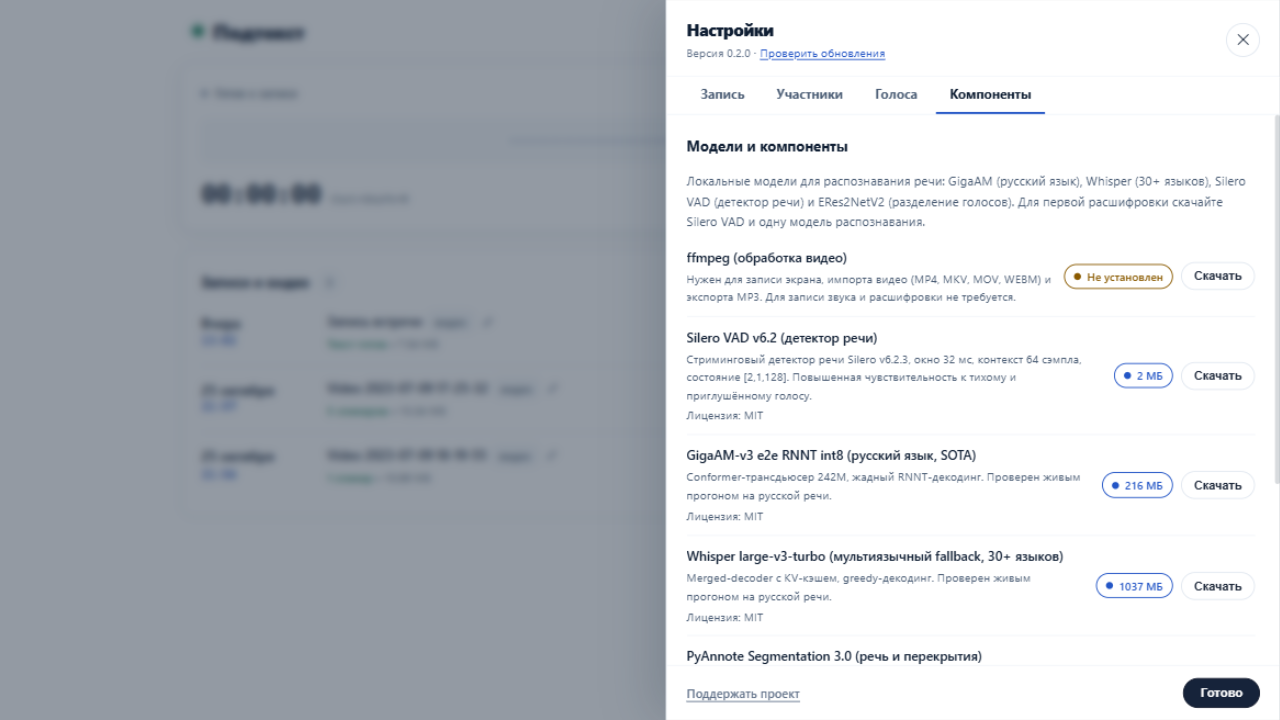
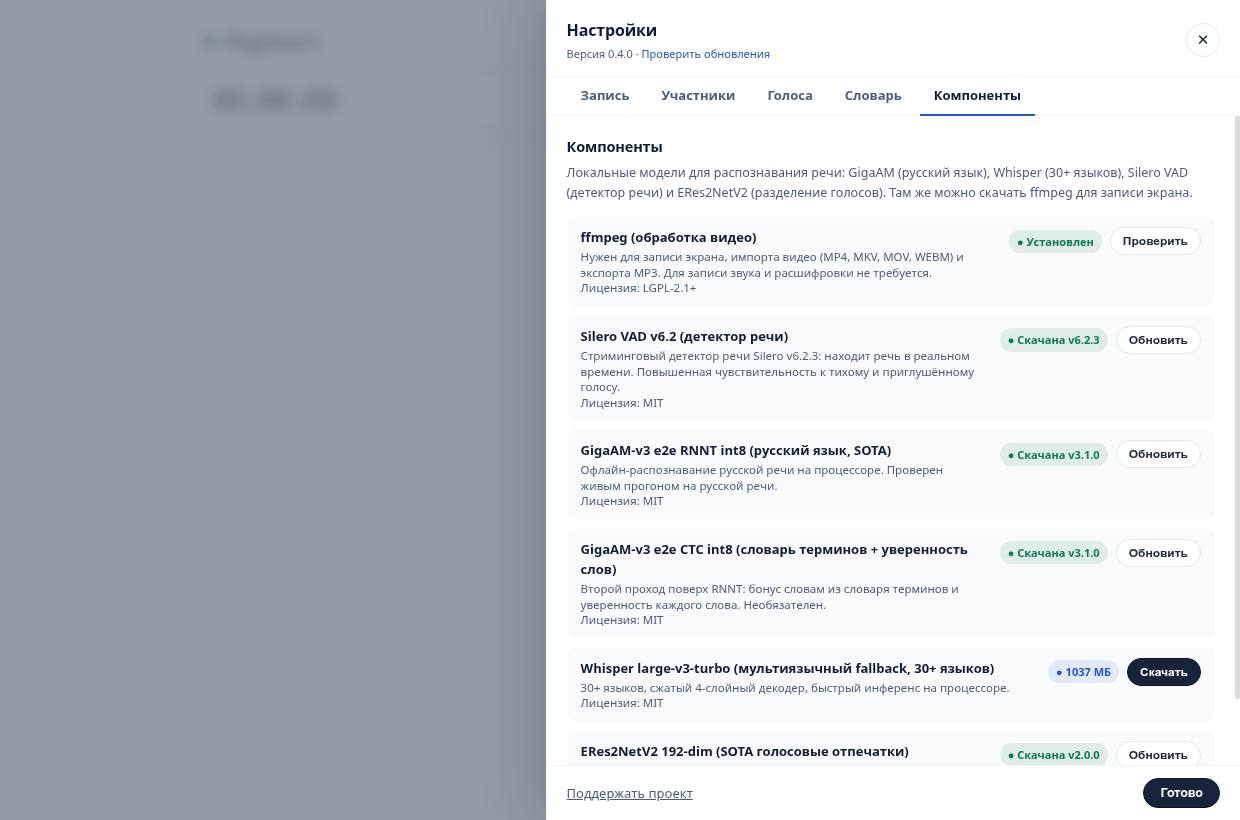
readme update

diff --git a/docs/render_screenshots.html b/docs/render_screenshots.html
@@ -233,7 +233,7 @@
                   </button>
                   <div class="clean-chip static">
                     <svg width="12" height="12" viewBox="0 0 24 24" fill="none" stroke="currentColor" stroke-width="2" stroke-linecap="round"><path d="M12 2a3 3 0 0 0-3 3v7a3 3 0 0 0 6 0V5a3 3 0 0 0-3-3Z"/><path d="M19 10v2a7 7 0 0 1-14 0v-2"/><line x1="12" y1="19" x2="12" y2="22"/></svg>
-                    <span class="mic-name-text">Raptor Lake-P/U/H cAVS Digital Microphone</span>
+                    <span class="mic-name-text">Встроенный микрофон</span>
                   </div>
                 </div>
               </div>
@@ -325,7 +325,7 @@
                 <span>Спикеры · 3</span>
                 <span class="spk-notify-dot ok"></span>
               </button>
-              <button class="btn-primary btn-sm btn-transcribe-header">Запустить расшифровку</button>
+              <button class="btn-primary btn-sm btn-transcribe-header">Повторить расшифровку</button>
               <button class="btn-secondary btn-sm">DOCX</button>
               <button class="btn-secondary btn-sm">PDF</button>
               <button class="btn-secondary btn-sm">Копировать текст</button>
@@ -334,8 +334,8 @@
           <div class="transcript-sub-player is-expanded">
             <div class="video-player-container">
               <div class="mock-video-slide">
-                <h3>Подтекст (Podtekst) — Локальная архитектура v0.1.6</h3>
-                <p>GigaAM RNNT int8 • Silero VAD • ERes2NetV2 192-dim • Tauri v2 • PipeWire</p>
+                <h3>Подтекст (Podtekst) — Локальная архитектура v0.4.0</h3>
+                <p>GigaAM RNNT int8 • CTC Hotwords • Silero VAD • ERes2NetV2 192-dim • Tauri v2</p>
                 <div class="play-overlay-badge">▶ 00:18 / 14:22 • Слайд 3: Модули диаризации</div>
               </div>
               <button type="button" class="btn-video-expand">
@@ -351,18 +351,18 @@
             <div class="transcript-speakers">
               <div class="speakers-deck">
                 <div class="speaker-card matched" style="--spk: #2563eb; --spk-bg: rgba(37, 99, 235, 0.05);">
-                  <div class="speaker-top"><span class="speaker-name">Алексей Смирнов</span><span class="speaker-status ok">Микрофон · 6</span></div>
-                  <div class="speaker-samples"><div class="sample-row"><button class="sample-play">▶</button><span class="sample-text">«Я тогда слать тебе…»</span></div></div>
+                  <div class="speaker-top"><span class="speaker-name">Алексей Смирнов</span><span class="speaker-status ok">узнан · Команда · 0.94</span></div>
+                  <div class="speaker-samples"><div class="sample-row"><button class="sample-play">▶</button><span class="sample-text">00:02 · «Всем привет! Сверяемся по…»</span><button class="sample-detach-btn">Открепить</button></div></div>
                   <div class="assign-row"><input class="input-field" value="Алексей Смирнов (Team Lead)" /><button class="btn-secondary btn-sm">Запомнить</button></div>
                 </div>
                 <div class="speaker-card matched" style="--spk: #0e7a55; --spk-bg: rgba(14, 122, 85, 0.05);">
-                  <div class="speaker-top"><span class="speaker-name">Иван Петров</span><span class="speaker-status ok">Собеседник · 38</span></div>
-                  <div class="speaker-samples"><div class="sample-row"><button class="sample-play">▶</button><span class="sample-text">«GigaAM RNNT в int8…»</span></div></div>
+                  <div class="speaker-top"><span class="speaker-name">Иван Петров</span><span class="speaker-status ok">узнан · Команда · 0.91</span></div>
+                  <div class="speaker-samples"><div class="sample-row"><button class="sample-play">▶</button><span class="sample-text">00:09 · «GigaAM RNNT в int8…»</span><button class="sample-detach-btn">Открепить</button></div></div>
                   <div class="assign-row"><input class="input-field" value="Иван Петров (Backend Lead)" /><button class="btn-secondary btn-sm">Запомнить</button></div>
                 </div>
                 <div class="speaker-card matched" style="--spk: #d97706; --spk-bg: rgba(217, 119, 6, 0.05);">
-                  <div class="speaker-top"><span class="speaker-name">Мария Сидорова</span><span class="speaker-status ok">Собеседник · 34</span></div>
-                  <div class="speaker-samples"><div class="sample-row"><button class="sample-play">▶</button><span class="sample-text">«Проверили диаризацию…»</span></div></div>
+                  <div class="speaker-top"><span class="speaker-name">Мария Сидорова</span><span class="speaker-status ok">узнан · Команда · 0.89</span></div>
+                  <div class="speaker-samples"><div class="sample-row"><button class="sample-play">▶</button><span class="sample-text">00:18 · «Проверили диаризацию…»</span><button class="sample-detach-btn">Открепить</button></div></div>
                   <div class="assign-row"><input class="input-field" value="Мария Сидорова (QA Lead)" /><button class="btn-secondary btn-sm">Запомнить</button></div>
                 </div>
               </div>
@@ -379,12 +379,12 @@
                 </div>
               </div>
               <div class="markdown-body">
-                <div class="utt utterance" style="--spk: #2563eb; --spk-bg: rgba(37, 99, 235, 0.06);"><button class="utt-time-btn">00:02</button><div class="utt-body"><div class="utt-speaker">Алексей Смирнов (Team Lead)</div><div class="utt-text">Всем привет! Сверяемся по архитектуре локального распознавания и релизу версии 0.1.6.</div></div></div>
-                <div class="utt utterance" style="--spk: #0e7a55; --spk-bg: rgba(14, 122, 85, 0.06);"><button class="utt-time-btn">00:09</button><div class="utt-body"><div class="utt-speaker">Иван Петров (Backend Lead)</div><div class="utt-text">GigaAM RNNT в int8 готов. Потребление памяти снизили до 226 МБ, инференс полностью на CPU без дискретной видеокарты.</div></div></div>
+                <div class="utt utterance" style="--spk: #2563eb; --spk-bg: rgba(37, 99, 235, 0.06);"><button class="utt-time-btn">00:02</button><div class="utt-body"><div class="utt-speaker">Алексей Смирнов (Team Lead)</div><div class="utt-text">Всем привет! Сверяемся по архитектуре локального распознавания и релизу версии 0.4.0.</div></div></div>
+                <div class="utt utterance" style="--spk: #0e7a55; --spk-bg: rgba(14, 122, 85, 0.06);"><button class="utt-time-btn">00:09</button><div class="utt-body"><div class="utt-speaker">Иван Петров (Backend Lead)</div><div class="utt-text">GigaAM RNNT в int8 готов. Второй проход CTC со словарём терминов даёт точные названия и уверенность каждого слова. Инференс полностью на CPU.</div></div></div>
                 <div class="utt utterance active" style="--spk: #d97706; --spk-bg: rgba(217, 119, 6, 0.06);"><button class="utt-time-btn">00:18</button><div class="utt-body"><div class="utt-speaker">Мария Сидорова (QA Lead)</div><div class="utt-text">Проверили диаризацию на стереозаписях: ERes2NetV2 разделяет спикеров без ошибок даже при наложении фраз.</div></div></div>
                 <div class="utt utterance" style="--spk: #0e7a55; --spk-bg: rgba(14, 122, 85, 0.06);"><button class="utt-time-btn">00:27</button><div class="utt-body"><div class="utt-speaker">Иван Петров (Backend Lead)</div><div class="utt-text">Мульти-прототипные отпечатки устойчивы. Голосовые пакеты можно подключать и переносить между машинами через Voice Packs.</div></div></div>
                 <div class="utt utterance" style="--spk: #2563eb; --spk-bg: rgba(37, 99, 235, 0.06);"><button class="utt-time-btn">00:36</button><div class="utt-body"><div class="utt-speaker">Алексей Смирнов (Team Lead)</div><div class="utt-text">Отлично. Главное — 100% приватность: ни один байт аудио или текста не уходит в облако. Экспорт в Markdown сохраняется прямо в папку встречи.</div></div></div>
-                <div class="utt utterance" style="--spk: #d97706; --spk-bg: rgba(217, 119, 6, 0.06);"><button class="utt-time-btn">00:45</button><div class="utt-body"><div class="utt-speaker">Мария Сидорова (QA Lead)</div><div class="utt-text">Все автотесты в CI зелёные. Можем открывать релиз и публиковать документацию.</div></div></div>
+                <div class="utt utterance" style="--spk: #d97706; --spk-bg: rgba(217, 119, 6, 0.06);"><button class="utt-time-btn">00:45</button><div class="utt-body"><div class="utt-speaker">Мария Сидорова (QA Lead)</div><div class="utt-text">Все автотесты в CI зелёные на Linux, macOS и Windows. Можем открывать релиз и публиковать документацию.</div></div></div>
               </div>
             </div>
           </main>
@@ -405,7 +405,7 @@
         <div class="app-drawer-top">
           <div class="settings-heading">
             <h2 class="modal-title">Настройки</h2>
-            <div class="settings-version">Версия 0.1.6 · <a href="#check" style="color: var(--accent-blue); text-decoration: none;">Проверить обновления</a></div>
+            <div class="settings-version">Версия 0.4.0 · <a href="#check" style="color: var(--accent-blue); text-decoration: none;">Проверить обновления</a></div>
           </div>
           <button class="icon-btn">✕</button>
         </div>
@@ -413,29 +413,38 @@
           <button class="settings-tab">Запись</button>
           <button class="settings-tab">Участники</button>
           <button class="settings-tab">Голоса</button>
-          <button class="settings-tab active">Модели</button>
+          <button class="settings-tab">Словарь</button>
+          <button class="settings-tab active">Компоненты</button>
         </div>
         <div class="app-drawer-body">
           <div>
-            <div class="card-title" style="margin-bottom: 6px;">Модели ИИ</div>
-            <div class="help-text">Локальные модели для распознавания речи: GigaAM (русский язык), Whisper (30+ языков), Silero VAD (детектор речи) и ERes2NetV2 (разделение голосов). Для первой расшифровки скачайте Silero VAD и одну модель распознавания.</div>
+            <div class="card-title" style="margin-bottom: 6px;">Компоненты</div>
+            <div class="help-text">Локальные модели для распознавания речи: GigaAM (русский язык), Whisper (30+ языков), Silero VAD (детектор речи) и ERes2NetV2 (разделение голосов). Там же можно скачать ffmpeg для записи экрана.</div>
           </div>
-          <div class="models-list" style="display: flex; flex-direction: column; gap: 14px;">
-            <div class="model-item" style="display: flex; justify-content: space-between; align-items: flex-start; gap: 14px; padding: 12px 14px; background: var(--bg-inset); border-radius: var(--radius-inner);">
-              <div style="flex: 1;"><div style="font-weight: 700; font-size: 13.5px; margin-bottom: 3px;">Silero VAD v6.2 (детектор речи)</div><div style="font-size: 12px; color: var(--text-muted); line-height: 1.4;">Стриминговый детектор речи Silero v6.2.3, окно 32 мс, контекст 64 сэмпла, состояние [2,1,128]. Повышенная чувствительность к тихому и приглушённому голосу.<br>Лицензия: MIT</div></div>
-              <div style="display: flex; gap: 8px; align-items: center; flex-shrink: 0;"><span class="status-chip ok" style="font-size: 11.5px; padding: 3px 8px; border-radius: 999px; background: rgba(14, 122, 85, 0.1); color: var(--accent-ok); font-weight: 600;">● Скачана v6.2.3</span><button class="btn-secondary btn-sm">Обновить</button></div>
+          <div class="models-list" style="display: flex; flex-direction: column; gap: 10px;">
+            <div class="model-item" style="display: flex; justify-content: space-between; align-items: flex-start; gap: 14px; padding: 10px 14px; background: var(--bg-inset); border-radius: var(--radius-inner);">
+              <div style="flex: 1;"><div style="font-weight: 700; font-size: 13px; margin-bottom: 2px;">ffmpeg (обработка видео)</div><div style="font-size: 11.5px; color: var(--text-muted); line-height: 1.35;">Нужен для записи экрана, импорта видео (MP4, MKV, MOV, WEBM) и экспорта MP3. Для записи звука и расшифровки не требуется.<br>Лицензия: LGPL-2.1+</div></div>
+              <div style="display: flex; gap: 8px; align-items: center; flex-shrink: 0;"><span class="status-chip ok" style="font-size: 11px; padding: 3px 8px; border-radius: 999px; background: rgba(14, 122, 85, 0.1); color: var(--accent-ok); font-weight: 600;">● Установлен</span><button class="btn-secondary btn-sm">Проверить</button></div>
             </div>
-            <div class="model-item" style="display: flex; justify-content: space-between; align-items: flex-start; gap: 14px; padding: 12px 14px; background: var(--bg-inset); border-radius: var(--radius-inner);">
-              <div style="flex: 1;"><div style="font-weight: 700; font-size: 13.5px; margin-bottom: 3px;">GigaAM-v3 e2e RNNT int8 (русский язык, SOTA)</div><div style="font-size: 12px; color: var(--text-muted); line-height: 1.4;">Conformer-трансдьюсер 242M, жадный RNNT-декодинг. Проверен живым прогоном на русской речи.<br>Лицензия: MIT</div></div>
-              <div style="display: flex; gap: 8px; align-items: center; flex-shrink: 0;"><span class="status-chip ok" style="font-size: 11.5px; padding: 3px 8px; border-radius: 999px; background: rgba(14, 122, 85, 0.1); color: var(--accent-ok); font-weight: 600;">● Скачана v3.1.0</span><button class="btn-secondary btn-sm">Обновить</button></div>
+            <div class="model-item" style="display: flex; justify-content: space-between; align-items: flex-start; gap: 14px; padding: 10px 14px; background: var(--bg-inset); border-radius: var(--radius-inner);">
+              <div style="flex: 1;"><div style="font-weight: 700; font-size: 13px; margin-bottom: 2px;">Silero VAD v6.2 (детектор речи)</div><div style="font-size: 11.5px; color: var(--text-muted); line-height: 1.35;">Стриминговый детектор речи Silero v6.2.3: находит речь в реальном времени. Повышенная чувствительность к тихому и приглушённому голосу.<br>Лицензия: MIT</div></div>
+              <div style="display: flex; gap: 8px; align-items: center; flex-shrink: 0;"><span class="status-chip ok" style="font-size: 11px; padding: 3px 8px; border-radius: 999px; background: rgba(14, 122, 85, 0.1); color: var(--accent-ok); font-weight: 600;">● Скачана v6.2.3</span><button class="btn-secondary btn-sm">Обновить</button></div>
             </div>
-            <div class="model-item" style="display: flex; justify-content: space-between; align-items: flex-start; gap: 14px; padding: 12px 14px; background: var(--bg-inset); border-radius: var(--radius-inner);">
-              <div style="flex: 1;"><div style="font-weight: 700; font-size: 13.5px; margin-bottom: 3px;">Whisper large-v3-turbo (мультиязычный fallback, 30+ языков)</div><div style="font-size: 12px; color: var(--text-muted); line-height: 1.4;">Merged-decoder с KV-кэшем, greedy-декодинг. Проверен живым прогоном на русской речи.<br>Лицензия: MIT</div></div>
-              <div style="display: flex; gap: 8px; align-items: center; flex-shrink: 0;"><span class="status-chip info" style="font-size: 11.5px; padding: 3px 8px; border-radius: 999px; background: rgba(37, 99, 235, 0.1); color: var(--accent-blue); font-weight: 600;">● 1037 МБ</span><button class="btn-primary btn-sm">Скачать</button></div>
+            <div class="model-item" style="display: flex; justify-content: space-between; align-items: flex-start; gap: 14px; padding: 10px 14px; background: var(--bg-inset); border-radius: var(--radius-inner);">
+              <div style="flex: 1;"><div style="font-weight: 700; font-size: 13px; margin-bottom: 2px;">GigaAM-v3 e2e RNNT int8 (русский язык, SOTA)</div><div style="font-size: 11.5px; color: var(--text-muted); line-height: 1.35;">Офлайн-распознавание русской речи на процессоре. Проверен живым прогоном на русской речи.<br>Лицензия: MIT</div></div>
+              <div style="display: flex; gap: 8px; align-items: center; flex-shrink: 0;"><span class="status-chip ok" style="font-size: 11px; padding: 3px 8px; border-radius: 999px; background: rgba(14, 122, 85, 0.1); color: var(--accent-ok); font-weight: 600;">● Скачана v3.1.0</span><button class="btn-secondary btn-sm">Обновить</button></div>
             </div>
-            <div class="model-item" style="display: flex; justify-content: space-between; align-items: flex-start; gap: 14px; padding: 12px 14px; background: var(--bg-inset); border-radius: var(--radius-inner);">
-              <div style="flex: 1;"><div style="font-weight: 700; font-size: 13.5px; margin-bottom: 3px;">ERes2NetV2 192-dim (SOTA голосовые отпечатки)</div><div style="font-size: 12px; color: var(--text-muted); line-height: 1.4;">3D-Speaker ERes2NetV2: fbank [B,T,80] → 192-dim. Проверен: косинус 1.0 с официальным чекпоинтом; кросс-спикерные пары ≤ 0.22, свой голос ≥ 0.48.<br>Лицензия: Apache-2.0</div></div>
-              <div style="display: flex; gap: 8px; align-items: center; flex-shrink: 0;"><span class="status-chip ok" style="font-size: 11.5px; padding: 3px 8px; border-radius: 999px; background: rgba(14, 122, 85, 0.1); color: var(--accent-ok); font-weight: 600;">● Скачана v2.0.0</span><button class="btn-secondary btn-sm">Обновить</button></div>
+            <div class="model-item" style="display: flex; justify-content: space-between; align-items: flex-start; gap: 14px; padding: 10px 14px; background: var(--bg-inset); border-radius: var(--radius-inner);">
+              <div style="flex: 1;"><div style="font-weight: 700; font-size: 13px; margin-bottom: 2px;">GigaAM-v3 e2e CTC int8 (словарь терминов + уверенность слов)</div><div style="font-size: 11.5px; color: var(--text-muted); line-height: 1.35;">Второй проход поверх RNNT: бонус словам из словаря терминов и уверенность каждого слова. Необязателен.<br>Лицензия: MIT</div></div>
+              <div style="display: flex; gap: 8px; align-items: center; flex-shrink: 0;"><span class="status-chip ok" style="font-size: 11px; padding: 3px 8px; border-radius: 999px; background: rgba(14, 122, 85, 0.1); color: var(--accent-ok); font-weight: 600;">● Скачана v3.1.0</span><button class="btn-secondary btn-sm">Обновить</button></div>
+            </div>
+            <div class="model-item" style="display: flex; justify-content: space-between; align-items: flex-start; gap: 14px; padding: 10px 14px; background: var(--bg-inset); border-radius: var(--radius-inner);">
+              <div style="flex: 1;"><div style="font-weight: 700; font-size: 13px; margin-bottom: 2px;">Whisper large-v3-turbo (мультиязычный fallback, 30+ языков)</div><div style="font-size: 11.5px; color: var(--text-muted); line-height: 1.35;">30+ языков, сжатый 4-слойный декодер, быстрый инференс на процессоре.<br>Лицензия: MIT</div></div>
+              <div style="display: flex; gap: 8px; align-items: center; flex-shrink: 0;"><span class="status-chip info" style="font-size: 11px; padding: 3px 8px; border-radius: 999px; background: rgba(37, 99, 235, 0.1); color: var(--accent-blue); font-weight: 600;">● 1037 МБ</span><button class="btn-primary btn-sm">Скачать</button></div>
+            </div>
+            <div class="model-item" style="display: flex; justify-content: space-between; align-items: flex-start; gap: 14px; padding: 10px 14px; background: var(--bg-inset); border-radius: var(--radius-inner);">
+              <div style="flex: 1;"><div style="font-weight: 700; font-size: 13px; margin-bottom: 2px;">ERes2NetV2 192-dim (SOTA голосовые отпечатки)</div><div style="font-size: 11.5px; color: var(--text-muted); line-height: 1.35;">3D-Speaker ERes2NetV2: 192-мерные L2-векторы для разделения и узнавания спикеров.<br>Лицензия: Apache-2.0</div></div>
+              <div style="display: flex; gap: 8px; align-items: center; flex-shrink: 0;"><span class="status-chip ok" style="font-size: 11px; padding: 3px 8px; border-radius: 999px; background: rgba(14, 122, 85, 0.1); color: var(--accent-ok); font-weight: 600;">● Скачана v2.0.0</span><button class="btn-secondary btn-sm">Обновить</button></div>
             </div>
           </div>
         </div>
@@ -623,7 +632,7 @@
 
           <main class="transcript-content" style="overflow-y: auto; padding-right: 4px;">
             <div class="markdown-body" style="font-size: 12.5px;">
-              <div class="utt utterance" id="wt-utt-1" style="--spk: #2563eb; --spk-bg: rgba(37, 99, 235, 0.06); padding: 7px 10px; margin-bottom: 6px;"><button class="utt-time-btn">00:02</button><div class="utt-body"><div class="utt-speaker">Алексей Смирнов (Team Lead)</div><div class="utt-text">Всем привет! Сверяемся по архитектуре локального распознавания и релизу версии 0.1.6.</div></div></div>
+              <div class="utt utterance" id="wt-utt-1" style="--spk: #2563eb; --spk-bg: rgba(37, 99, 235, 0.06); padding: 7px 10px; margin-bottom: 6px;"><button class="utt-time-btn">00:02</button><div class="utt-body"><div class="utt-speaker">Алексей Смирнов (Team Lead)</div><div class="utt-text">Всем привет! Сверяемся по архитектуре локального распознавания и релизу версии 0.4.0.</div></div></div>
               <div class="utt utterance active" id="wt-utt-2" style="--spk: #0e7a55; --spk-bg: rgba(14, 122, 85, 0.06); padding: 7px 10px; margin-bottom: 6px;"><button class="utt-time-btn">00:09</button><div class="utt-body"><div class="utt-speaker">Иван Петров (Backend Lead)</div><div class="utt-text">GigaAM RNNT в int8 готов. Потребление памяти снизили до 226 МБ, инференс полностью на CPU без дискретной видеокарты.</div></div></div>
               <div class="utt utterance" id="wt-utt-3" style="--spk: #d97706; --spk-bg: rgba(217, 119, 6, 0.06); padding: 7px 10px; margin-bottom: 6px;"><button class="utt-time-btn">00:18</button><div class="utt-body"><div class="utt-speaker">Мария Сидорова (QA Lead)</div><div class="utt-text">Проверили диаризацию на стереозаписях: ERes2NetV2 разделяет спикеров без ошибок даже при наложении фраз.</div></div></div>
               <div class="utt utterance" id="wt-utt-4" style="--spk: #0e7a55; --spk-bg: rgba(14, 122, 85, 0.06); padding: 7px 10px; margin-bottom: 6px;"><button class="utt-time-btn">00:27</button><div class="utt-body"><div class="utt-speaker">Иван Петров (Backend Lead)</div><div class="utt-text">Мульти-прототипные отпечатки устойчивы. Голосовые пакеты можно подключать и переносить между машинами через Voice Packs.</div></div></div>
@@ -644,7 +653,7 @@
           <div class="app-drawer-top">
             <div class="settings-heading">
               <h2 class="modal-title">Настройки</h2>
-              <div class="settings-version">Версия 0.1.6 · <a href="#check" style="color: var(--accent-blue); text-decoration: none;">Проверить обновления</a></div>
+              <div class="settings-version">Версия 0.4.0 · <a href="#check" style="color: var(--accent-blue); text-decoration: none;">Проверить обновления</a></div>
             </div>
             <button class="icon-btn">✕</button>
           </div>
@@ -652,11 +661,12 @@
             <button class="settings-tab">Запись</button>
             <button class="settings-tab">Участники</button>
             <button class="settings-tab">Голоса</button>
-            <button class="settings-tab active">Модели</button>
+            <button class="settings-tab">Словарь</button>
+            <button class="settings-tab active">Компоненты</button>
           </div>
           <div class="app-drawer-body" style="padding: 16px 20px; overflow-y: auto; flex: 1;">
             <div>
-              <div class="card-title" style="margin-bottom: 4px; font-size: 14px;">Модели ИИ</div>
+              <div class="card-title" style="margin-bottom: 4px; font-size: 14px;">Компоненты</div>
               <div class="help-text" style="font-size: 11.5px; margin-bottom: 12px;">Локальные модели для распознавания речи: GigaAM (русский язык), Whisper (30+ языков), Silero VAD (детектор речи) и ERes2NetV2 (разделение голосов).</div>
             </div>
             <div class="models-list" style="display: flex; flex-direction: column; gap: 9px;">

diff --git a/README.md b/README.md
@@ -16,7 +16,7 @@
 ---
 
 <img src="docs/screenshots/demo-walkthrough.gif" alt="Демо работы Подтекст" width="880" />
-<p><em>Запись в 1 клик, стерео-сплит собеседников, локальная расшифровка по спикерам и встроенный каталог моделей</em></p>
+<p><em>Запись в один клик, раздельный захват собеседников, локальная расшифровка по спикерам и словарь терминов</em></p>
 
 </div>
 
@@ -27,9 +27,10 @@
 - **Раздельный захват:** на компьютере ваш микрофон записывается в левый канал, системный звук звонка - в правый (PipeWire / PulseAudio / WASAPI Loopback / ScreenCaptureKit). Голоса не накладываются друг на друга: это повышает точность расшифровки и позволяет слушать собеседников отдельно.
 - **100% офлайн и приватность:** распознавание работает локально через ONNX Runtime на процессоре ноутбука или телефона. Данные аудио, текст и цифровые отпечатки голоса не отправляются во внешнюю сеть.
 - **Русский язык SOTA (GigaAM-v3):** модель от SberDevices с квантованием весов в INT8 (всего 226 МБ). Распознает русскую речь быстро и без дискретной видеокарты.
+- **Словарь терминов и уверенность слов (GigaAM CTC):** второй проход распознавания со словарём профессиональных терминов, имён и сленга (до 500 слов). Оценивает уверенность каждого слова и автоматически исправляет частые ошибки на слух.
 - **Мультиязычность (Whisper Turbo):** модель Whisper large-v3-turbo (INT8, ~1.08 ГБ) для встреч на английском и ещё 30+ языках.
 - **Диаризация и узнавание коллег:** модель ERes2NetV2 (3D-Speaker) разбивает дорожку на реплики и узнаёт знакомые голоса по сохранённым профилям (Voice Packs).
-- **Синхронная запись экрана (Linux, Windows, macOS):** запись рабочего стола или окна звонка вместе с микрофоном и системным звуком. Видео и звук сохраняются в один MP4 без нагрузки на процессор. Захват: GNOME Shell / PipeWire на Linux, ffmpeg gdigrab на Windows, ffmpeg avfoundation на macOS; ffmpeg ставится кнопкой из интерфейса. В плеере видео идёт синхронно с репликами и таймкодами.
+- **Синхронная запись экрана (Linux, Windows, macOS):** рабочий стол или окно звонка записываются вместе с микрофоном и системным звуком. Видео и звук сохраняются в единый MP4-файл без нагрузки на процессор. Поддерживается нативный захват на Linux (GNOME Shell / PipeWire), Windows (ffmpeg gdigrab) и macOS (ffmpeg avfoundation); ffmpeg ставится кнопкой из интерфейса. Встроенный плеер воспроизводит видео синхронно с репликами и таймкодами.
 - **Готовые конспекты для базы знаний:** после остановки записи рядом с файлом автоматически создаются:
   - `.md` - читаемый протокол со спикерами и таймкодами (для Obsidian, Notion, Logseq);
   - `.txt` - чистый текст для отправки в локальные языковые модели;
@@ -39,7 +40,7 @@
 
 <div align="center">
   <img src="docs/screenshots/screen-recording-demo.gif" alt="Запись экрана и аудиопотоков" width="880" />
-  <p><em>Включение записи экрана в 1 клик: одновременный захват видеоряда, микрофона и собеседников (протестировано на Linux)</em></p>
+  <p><em>Запись экрана в один клик: одновременный захват видеоряда, микрофона и собеседников (Linux, Windows, macOS)</em></p>
 </div>
 
 ---
@@ -56,11 +57,11 @@
 | Платформа | Живой захват аудио | Запись экрана | Импорт файлов и видео | Статус |
 | :--- | :---: | :---: | :---: | :--- |
 | **Linux** (PipeWire / PulseAudio) | Да (микрофон + система) | Да (GNOME Shell / PipeWire) | Да | Готов к работе |
-| **macOS** (Apple Silicon, 13.4+) | Да (CoreAudio: микрофон; ScreenCaptureKit: системный звук) | Да (ffmpeg avfoundation) | Да | Бета |
-| **Windows** (10 / 11, x64) | Да (WASAPI: микрофон + системный звук) | Да (ffmpeg gdigrab; ffmpeg ставится кнопкой из интерфейса, работает вместе с живым захватом аудио) | Да | Бета |
+| **Windows** (10 / 11, x64) | Да (WASAPI: микрофон + системный звук) | Да (ffmpeg gdigrab; ставится кнопкой из интерфейса) | Да | Готов к работе |
+| **macOS** (Apple Silicon, 13.4+) | Да (CoreAudio: микрофон; ScreenCaptureKit: системный звук) | Да (ffmpeg avfoundation) | Да | Тестирование |
 | **Android** | Только микрофон | Нет | Аудио (без видео) | Экспериментально (см. [ANDROID.md](ANDROID.md)) |
 
-> Готовые бинарные пакеты доступны на вкладке [Releases](https://github.com/guest363/meeting-record/releases).
+> Готовые бинарные пакеты доступны на вкладке [Releases](https://github.com/guest363/podtekst/releases).
 
 ---
 
@@ -164,6 +165,7 @@ cd podtekst
 | Модель | Назначение | Архитектура и веса | Память (RAM) | Особенности | Лицензия |
 | :--- | :--- | :--- | :---: | :--- | :---: |
 | **GigaAM-v3 e2e RNNT** | Основной ASR (RU) | Conformer-Transducer 242M, **INT8** (226 МБ) | ~600 МБ | SOTA для русской речи, жадный RNNT-декодинг | MIT |
+| **GigaAM-v3 e2e CTC** | Словарь терминов и уверенность слов | Conformer-CTC 242M, **INT8** (225 МБ) | ~600 МБ | Второй проход: точность профлексики, подсказки на слух и оценка уверенности слов | MIT |
 | **Whisper Turbo** | Мультиязычный ASR | Seq2Seq Transformer, **INT8** (1.08 ГБ) | ~3.8 ГБ | 30+ языков, сжатый 4-слойный декодер | MIT |
 | **Silero VAD v6.2** | Детектор речи | Потоковая рекуррентная сеть (2.3 МБ) | ~15 МБ | Окно 32 мс, фильтрация вздохов, кликов и эха | MIT |
 | **ERes2NetV2 3D-Speaker** | Отпечатки голоса | ERes2NetV2 17.9M, FP32 (68 МБ) | ~120 МБ | 192-мерные L2-векторы, точность на отрезках от 1.5 с | Apache-2.0 |
